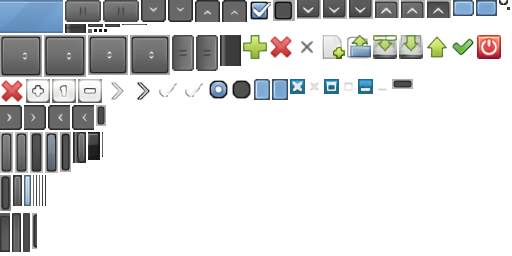
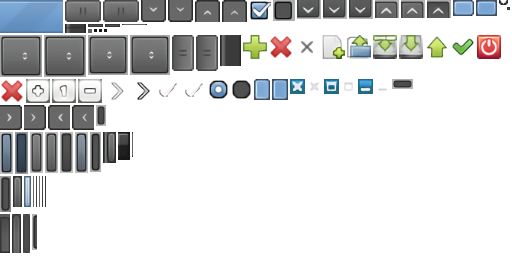
Added support for combined UI states.
--HG--
branch : dev-stateful-drawable

diff --git a/src/eepp/ui/uinode.cpp b/src/eepp/ui/uinode.cpp
@@ -384,7 +384,7 @@ UISkin * UINode::setBackgroundFillEnabled( bool enabled ) {
 
 	invalidateDraw();
 
-	return mBackgroundState->getSkin();
+	return NULL != mBackgroundState ? mBackgroundState->getSkin() : NULL;
 }
 
 UINode * UINode::setBackgroundDrawable( const Uint32& state, Drawable * drawable, bool ownIt ) {
@@ -451,7 +451,7 @@ UISkin * UINode::setForegroundFillEnabled( bool enabled ) {
 
 	invalidateDraw();
 
-	return mForegroundState->getSkin();
+	return NULL != mForegroundState ? mForegroundState->getSkin() : NULL;
 }
 
 UINode * UINode::setForegroundDrawable( const Uint32 & state, Drawable * drawable, bool ownIt ) {
@@ -522,7 +522,7 @@ UISkin * UINode::setBorderEnabled( bool enabled ) {
 
 	invalidateDraw();
 
-	return mBorderState->getSkin();
+	return NULL != mBorderState ? mBorderState->getSkin() : NULL;
 }
 
 UINode * UINode::setBorderColor( const Uint32& state, const Color& color ) {
@@ -626,8 +626,8 @@ void UINode::drawForeground() {
 void UINode::drawBorder() {
 	if ( ( mFlags & UI_BORDER ) && NULL != mBorderState ) {
 		if ( NULL != mBorderState->getSkin() && NULL != mBackgroundState && NULL != mBackgroundState->getSkin() ) {
-			Drawable * drawable = mBorderState->getSkin()->getStateDrawable( 1 << mBorderState->getCurrentState() );
-			Drawable * backDrawable = mBackgroundState->getSkin()->getStateDrawable( 1 << mBorderState->getCurrentState() );
+			Drawable * drawable = mBorderState->getSkin()->getStateDrawable( mBorderState->getCurrentState() );
+			Drawable * backDrawable = mBackgroundState->getSkin()->getStateDrawable( mBorderState->getCurrentState() );
 
 			if ( NULL != backDrawable && NULL != drawable && backDrawable->getDrawableType() == Drawable::RECTANGLE && drawable->getDrawableType() == Drawable::RECTANGLE ) {
 				RectangleDrawable * borderDrawable = static_cast<RectangleDrawable*>( drawable );
@@ -882,7 +882,7 @@ Rectf UINode::makePadding( bool PadLeft, bool PadRight, bool PadTop, bool PadBot
 
 Sizef UINode::getSkinSize( UISkin * Skin, const Uint32& State ) {
 	if ( NULL != Skin ) {
-		return Skin->getSize( 1 << State );
+		return Skin->getSize( State );
 	}
 
 	return Sizef::Zero;
@@ -890,7 +890,7 @@ Sizef UINode::getSkinSize( UISkin * Skin, const Uint32& State ) {
 
 Sizef UINode::getSkinSize() {
 	if ( NULL != getSkin() ) {
-		return getSkin()->getSize( UIState::StateFlagNormal );
+		return getSkin()->getSize();
 	}
 
 	return Sizef::Zero;

diff --git a/src/eepp/ui/uislider.cpp b/src/eepp/ui/uislider.cpp
@@ -105,18 +105,18 @@ void UISlider::adjustChilds() {
 
 	if ( NULL != tSkin ) {
 		if ( mPageStep == 0 ) {
-			mSlider->setSize( tSkin->getSize( UIState::StateFlagNormal ) );
+			mSlider->setSize( tSkin->getSize() );
 		} else {
 			Float percent = ( mPageStep / ( mMaxValue - mMinValue ) );
 
 			if ( UI_HORIZONTAL == mOrientation ) {
-				Float size = eemax( ( (Float)mDpSize.getWidth() * percent ), tSkin->getSize( UIState::StateFlagNormal ).getWidth() );
+				Float size = eemax( ( (Float)mDpSize.getWidth() * percent ), tSkin->getSize().getWidth() );
 
-				mSlider->setSize( size, tSkin->getSize( UIState::StateFlagNormal ).getHeight() );
+				mSlider->setSize( size, tSkin->getSize().getHeight() );
 			} else {
-				Float size = eemax( ( (Float)mDpSize.getHeight() * percent ), tSkin->getSize( UIState::StateFlagNormal ).getHeight() );
+				Float size = eemax( ( (Float)mDpSize.getHeight() * percent ), tSkin->getSize().getHeight() );
 
-				mSlider->setSize( tSkin->getSize( UIState::StateFlagNormal ).getWidth(), size );
+				mSlider->setSize( tSkin->getSize().getWidth(), size );
 			}
 		}
 
@@ -136,7 +136,7 @@ void UISlider::adjustChilds() {
 			if ( mStyleConfig.ExpandBackground )
 				Height = mDpSize.getHeight() - mPadding.Top - mPadding.Bottom;
 			else
-				Height = tSkin->getSize( UIState::StateFlagNormal ).getHeight();
+				Height = tSkin->getSize().getHeight();
 
 			if ( mStyleConfig.AllowHalfSliderOut )
 				mBackSlider->setSize( Sizef( mDpSize.getWidth() - mSlider->getSize().getWidth() - mPadding.Left - mPadding.Right, Height ) );
@@ -148,7 +148,7 @@ void UISlider::adjustChilds() {
 			if ( mStyleConfig.ExpandBackground )
 				Width = mDpSize.getWidth() - mPadding.Left - mPadding.Right;
 			else
-				Width = tSkin->getSize( UIState::StateFlagNormal ).getWidth();
+				Width = tSkin->getSize().getWidth();
 
 			if ( mStyleConfig.AllowHalfSliderOut )
 				mBackSlider->setSize( Sizef( Width, mDpSize.getHeight() - mSlider->getSize().getHeight() - mPadding.Top - mPadding.Bottom ) );

diff --git a/src/eepp/ui/uistate.cpp b/src/eepp/ui/uistate.cpp
@@ -9,7 +9,20 @@ static const char * UIStatesNames[] = {
 	"selected",
 	"hover",
 	"pressed",
+	"selectedhover",
+	"selectedpressed",
 	"disabled"
+};
+
+static const Uint32 UIStateFlags[] = {
+	UIState::StateFlagNormal,
+	UIState::StateFlagFocus,
+	UIState::StateFlagSelected,
+	UIState::StateFlagHover,
+	UIState::StateFlagPressed,
+	UIState::StateFlagSelectedHover,
+	UIState::StateFlagSelectedPressed,
+	UIState::StateFlagDisabled
 };
 
 const char * UIState::getSkinStateName( const Uint32& State ) {
@@ -19,7 +32,7 @@ const char * UIState::getSkinStateName( const Uint32& State ) {
 int UIState::getStateNumber( const std::string& State ) {
 	for ( int i = 0; i < UIState::StateCount; i++ ) {
 		if ( State == UIStatesNames[i] ) {
-			return i;
+			return UIStateFlags[i];
 		}
 	}
 
@@ -42,8 +55,8 @@ UIState * UIState::New( UISkin * skin ) {
 
 UIState::UIState( UISkin * Skin ) :
 	mSkin( Skin ),
-	mState(1 << StateNormal),
-	mCurrentState(StateNormal)
+	mState(StateFlagNormal),
+	mCurrentState(StateFlagNormal)
 {
 	eeASSERT( NULL != mSkin );
 }
@@ -53,7 +66,7 @@ UIState::~UIState() {
 
 void UIState::draw( const Float& X, const Float& Y, const Float& Width, const Float& Height, const Uint32& Alpha ) {
 	if ( NULL != mSkin ) {
-		mSkin->setState( 1 << mCurrentState );
+		mSkin->setState( mCurrentState );
 		mSkin->setAlpha( Alpha );
 		mSkin->draw( Vector2f( X, Y ), Sizef( Width, Height ) );
 	}
@@ -100,14 +113,16 @@ Uint32 UIState::getCurrentState() const {
 }
 
 void UIState::updateState() {
-	for ( int i = StateCount - 1; i >= 0; i-- ) {
-		if ( ( mState & ( 1 << i ) ) && stateExists( i ) ) {
-			mCurrentState = i;
-			return;
+	for ( int i = StateFlagCount - 1; i >= 0; i-- ) {
+		if ( ( mState & UIStateFlags[i] ) == UIStateFlags[i] ) {
+			if ( mSkin->hasDrawableState( UIStateFlags[i] ) ) {
+				mCurrentState = UIStateFlags[i];
+				return;
+			}
 		}
 	}
 
-	mCurrentState = 0;
+	mCurrentState = StateFlagNormal;
 }
 
 }}

diff --git a/src/eepp/ui/uiprogressbar.cpp b/src/eepp/ui/uiprogressbar.cpp
@@ -56,13 +56,13 @@ void UIProgressBar::draw() {
 	Float Height = (Float)mSize.getHeight();
 
 	if ( !mStyleConfig.VerticalExpand )
-		Height = (Float)mFillerSkin->getSize( UIState::StateFlagNormal ).getHeight();
+		Height = (Float)mFillerSkin->getSize().getHeight();
 
 	if ( Height > mSize.getHeight() )
 		Height = mSize.getHeight();
 
 	Sizef fSize( ( ( mSize.getWidth() - fillerPadding.Left - fillerPadding.Right ) * mProgress ) / mTotalSteps, Height - fillerPadding.Top - fillerPadding.Bottom );
-	Sizei rSize( PixelDensity::dpToPxI( mFillerSkin->getSize( UIState::StateFlagNormal ) ) );
+	Sizei rSize( PixelDensity::dpToPxI( mFillerSkin->getSize() ) );
 	Sizei numTiles( (Int32)eeceil( (Float)fSize.getWidth() / (Float)rSize.getWidth() + 2 ),
 				(Int32)eeceil( (Float)fSize.getHeight() / (Float)rSize.getHeight() ) + 2 );
 
@@ -70,7 +70,6 @@ void UIProgressBar::draw() {
 
 	for ( int y = -1; y < numTiles.y; y++ ) {
 		for ( int x = -1; x < numTiles.x; x++ ) {
-			mFillerSkin->setState( UIState::StateFlagNormal );
 			mFillerSkin->draw( Vector2f( (Int32)mOffset.x + mScreenPosi.x + fillerPadding.Left + x * rSize.getWidth(), mOffset.y + mScreenPosi.y + fillerPadding.Top + y * rSize.getHeight() ), Sizef( rSize.getWidth(), rSize.getHeight() ) );
 		}
 	}
@@ -88,7 +87,7 @@ void UIProgressBar::update( const Time& time ) {
 
 	mOffset += mStyleConfig.MovementSpeed * (Float)( time.asSeconds() );
 
-	Sizei rSize( PixelDensity::dpToPxI( mFillerSkin->getSize( UIState::StateFlagNormal ) ) );
+	Sizei rSize( PixelDensity::dpToPxI( mFillerSkin->getSize() ) );
 
 	if ( mOffset.x > rSize.getWidth() || mOffset.x < -rSize.getWidth() )
 		mOffset.x = 0.f;

diff --git a/src/eepp/ui/uitheme.cpp b/src/eepp/ui/uitheme.cpp
@@ -91,7 +91,7 @@ UITheme * UITheme::loadFromTextureAtlas( UITheme * tTheme, Graphics::TextureAtla
 				int stateNum = UIState::getStateNumber( nameParts[ nameParts.size() - 1 ] );
 
 				if ( -1 != stateNum )
-					skins[ skinName ]->setStateDrawable( 1 << stateNum, drawable );
+					skins[ skinName ]->setStateDrawable( stateNum, drawable );
 			} else {
 				std::vector<std::string> nameParts = String::split( name, '_' );
 
@@ -106,7 +106,7 @@ UITheme * UITheme::loadFromTextureAtlas( UITheme * tTheme, Graphics::TextureAtla
 							skins[ skinName ] = tTheme->add( UISkin::New( skinName ) );
 
 						if ( -1 != stateNum )
-							skins[ skinName ]->setStateDrawable( 1 << stateNum, TextureRegion );
+							skins[ skinName ]->setStateDrawable( stateNum, TextureRegion );
 					}
 				}
 			}
@@ -181,7 +181,7 @@ UITheme * UITheme::loadFromDirectroy( UITheme * tTheme, const std::string& Path 
 					int stateNum = UIState::getStateNumber( nameParts[ nameParts.size() - 1 ] );
 
 					if ( -1 != stateNum )
-						skins[ skinName ]->setStateDrawable( 1 << stateNum, drawable );
+						skins[ skinName ]->setStateDrawable( stateNum, drawable );
 				} else {
 					std::vector<std::string> nameParts = String::split( name, '_' );
 
@@ -198,7 +198,7 @@ UITheme * UITheme::loadFromDirectroy( UITheme * tTheme, const std::string& Path 
 								skins[ skinName ] = tTheme->add( UISkin::New( skinName ) );
 
 							if ( -1 != stateNum )
-								skins[ skinName ]->setStateDrawable( 1 << stateNum, textureRegion );
+								skins[ skinName ]->setStateDrawable( stateNum, textureRegion );
 						}
 					}
 				}

diff --git a/include/eepp/ui/uistate.hpp b/include/eepp/ui/uistate.hpp
@@ -10,23 +10,27 @@ class UISkin;
 class EE_API UIState {
 	public:
 		enum UIStates {
-			StateNormal     = 0,
-			StateFocus      = 1,
-			StateSelected   = 2,
-			StateHover      = 3,
-			StatePressed    = 4,
-			StateDisabled   = 5,
-			StateCount      = 6
+			StateNormal = 0,
+			StateFocus,
+			StateSelected,
+			StateHover,
+			StatePressed,
+			StateSelectedHover,
+			StateSelectedPressed,
+			StateDisabled,
+			StateCount
 		};
 
 		enum UIStatesFlags {
-			StateFlagNormal     = 1 << StateNormal,
-			StateFlagFocus	    = 1 << StateFocus,
-			StateFlagSelected   = 1 << StateSelected,
-			StateFlagHover      = 1 << StateHover,
-			StateFlagPressed    = 1 << StatePressed,
-			StateFlagDisabled   = 1 << StateDisabled,
-			StateFlagCount      = StateCount
+			StateFlagNormal           = 1 << StateNormal,
+			StateFlagFocus	          = 1 << StateFocus,
+			StateFlagSelected         = 1 << StateSelected,
+			StateFlagHover            = 1 << StateHover,
+			StateFlagPressed          = 1 << StatePressed,
+			StateFlagSelectedHover    = StateFlagSelected | StateFlagHover,
+			StateFlagSelectedPressed  = StateFlagSelected | StateFlagPressed,
+			StateFlagDisabled         = 1 << StateDisabled,
+			StateFlagCount            = StateCount
 		};
 
 		static const char * getSkinStateName( const Uint32& State );

diff --git a/src/eepp/ui/uiscrollbar.cpp b/src/eepp/ui/uiscrollbar.cpp
@@ -72,13 +72,13 @@ void UIScrollBar::setTheme( UITheme * Theme ) {
 	UISkin * tSkin = mBtnUp->getSkin();
 
 	if ( NULL != tSkin ) {
-		mBtnUp->setSize( tSkin->getSize( UIState::StateFlagNormal ) );
+		mBtnUp->setSize( tSkin->getSize() );
 	}
 
 	tSkin = mBtnDown->getSkin();
 
 	if ( NULL != tSkin ) {
-		mBtnDown->setSize( tSkin->getSize( UIState::StateFlagNormal ) );
+		mBtnDown->setSize( tSkin->getSize() );
 	}
 
 	adjustChilds();
@@ -91,7 +91,7 @@ void UIScrollBar::onAutoSize() {
 	UISkin * tSkin = mSlider->getBackSlider()->getSkin();
 
 	if ( NULL != tSkin ) {
-		size = tSkin->getSize( UIState::StateFlagNormal );
+		size = tSkin->getSize();
 
 		mMinControlSize = PixelDensity::pxToDp( size );
 
@@ -108,7 +108,7 @@ void UIScrollBar::onAutoSize() {
 		UISkin * tSkin = mSlider->getSliderButton()->getSkin();
 
 		if ( NULL != tSkin ) {
-			size = tSkin->getSize( UIState::StateFlagNormal );
+			size = tSkin->getSize();
 
 			if ( mFlags & UI_AUTO_SIZE ) {
 				if ( mSlider->isVertical() ) {

diff --git a/src/eepp/maps/mapeditor/mapeditor.cpp b/src/eepp/maps/mapeditor/mapeditor.cpp
@@ -358,6 +358,7 @@ void MapEditor::createTextureRegionContainer( Int32 Width ) {
 
 	mGfxPreview = UITextureRegion::New();
 	mGfxPreview->setScaleType( UIScaleType::FitInside )
+			   ->setLayoutSizeRules( FIXED, FIXED )
 			   ->resetFlags( UI_VALIGN_CENTER | UI_HALIGN_CENTER | UI_ANCHOR_RIGHT | UI_ANCHOR_TOP )
 			   ->setParent( mSGCont )->setSize( Width, Width )
 			   ->setPosition( 0, mTextureRegionList->getPosition().y + mTextureRegionList->getSize().getHeight() + 4 );
@@ -495,11 +496,11 @@ void MapEditor::createUIMap() {
 	Int32 ScrollV = 16;
 
 	if ( NULL != HScrollSkin ) {
-		ScrollH = HScrollSkin->getSize( UIState::StateFlagNormal ).getHeight();
+		ScrollH = HScrollSkin->getSize().getHeight();
 	}
 
 	if ( NULL != VScrollSkin ) {
-		ScrollV = VScrollSkin->getSize( UIState::StateFlagNormal ).getHeight();
+		ScrollV = VScrollSkin->getSize().getHeight();
 	}
 
 	mUIMap = UIMap::New( mTheme );

diff --git a/src/eepp/ui/uiradiobutton.cpp b/src/eepp/ui/uiradiobutton.cpp
@@ -60,14 +60,14 @@ void UIRadioButton::onThemeLoaded() {
 	UISkin * tSkin = mActiveButton->getSkin();
 
 	if ( tSkin ) {
-		mActiveButton->setSize( tSkin->getSize( UIState::StateFlagNormal ) );
+		mActiveButton->setSize( tSkin->getSize() );
 		mActiveButton->centerVertical();
 	}
 
 	tSkin = mInactiveButton->getSkin();
 
 	if ( NULL != tSkin ) {
-		mInactiveButton->setSize( tSkin->getSize( UIState::StateFlagNormal ) );
+		mInactiveButton->setSize( tSkin->getSize() );
 		mInactiveButton->centerVertical();
 	}
 

diff --git a/src/eepp/ui/uicheckbox.cpp b/src/eepp/ui/uicheckbox.cpp
@@ -60,14 +60,14 @@ void UICheckBox::onThemeLoaded() {
 	UISkin * tSkin = mActiveButton->getSkin();
 
 	if ( tSkin ) {
-		mActiveButton->setSize( tSkin->getSize( UIState::StateFlagNormal ) );
+		mActiveButton->setSize( tSkin->getSize() );
 		mActiveButton->centerVertical();
 	}
 
 	tSkin = mInactiveButton->getSkin();
 
 	if ( NULL != tSkin ) {
-		mInactiveButton->setSize( tSkin->getSize( UIState::StateFlagNormal ) );
+		mInactiveButton->setSize( tSkin->getSize() );
 		mInactiveButton->centerVertical();
 	}
 

diff --git a/src/eepp/ui/uispinbox.cpp b/src/eepp/ui/uispinbox.cpp
@@ -66,13 +66,13 @@ void UISpinBox::setTheme( UITheme * Theme ) {
 	tSkin = mPushUp->getSkin();
 
 	if ( NULL != tSkin ) {
-		mPushUp->setSize( tSkin->getSize( UIState::StateFlagNormal ) );
+		mPushUp->setSize( tSkin->getSize() );
 	}
 
 	tSkin = mPushDown->getSkin();
 
 	if ( NULL != tSkin ) {
-		mPushDown->setSize( tSkin->getSize( UIState::StateFlagNormal ) );
+		mPushDown->setSize( tSkin->getSize() );
 	}
 
 	adjustChilds();

diff --git a/include/eepp/ui/uinode.hpp b/include/eepp/ui/uinode.hpp
@@ -241,7 +241,7 @@ class EE_API UINode : public Node {
 
 		Rectf makePadding( bool PadLeft = true, bool PadRight = true, bool PadTop = true, bool PadBottom = true, bool SkipFlags = false );
 
-		Sizef getSkinSize( UISkin * Skin, const Uint32& State = UIState::StateNormal );
+		Sizef getSkinSize( UISkin * Skin, const Uint32& State = UIState::StateFlagNormal );
 
 		void drawHighlightFocus();
 
